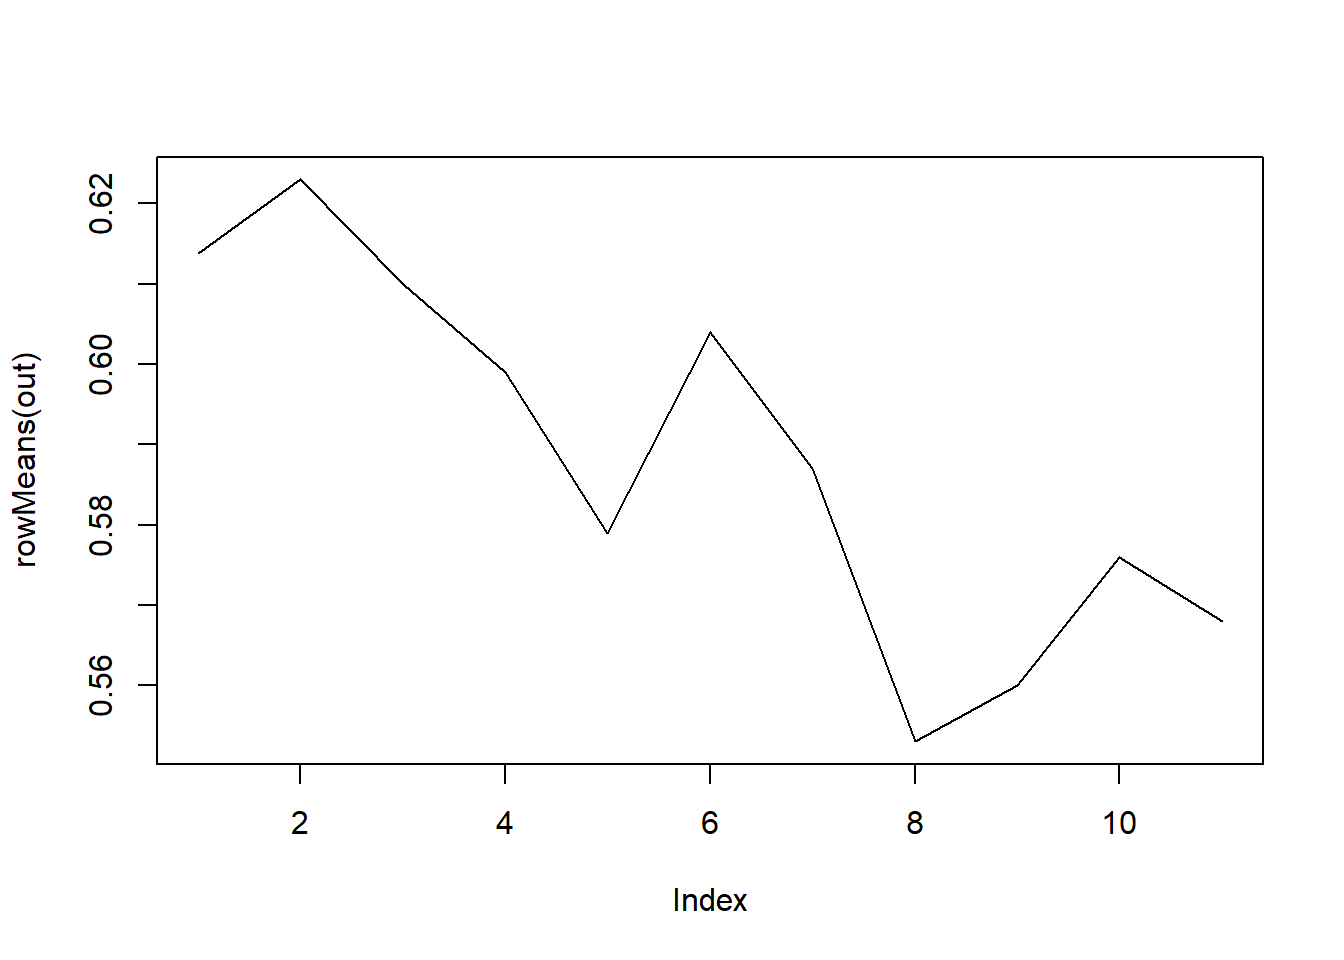
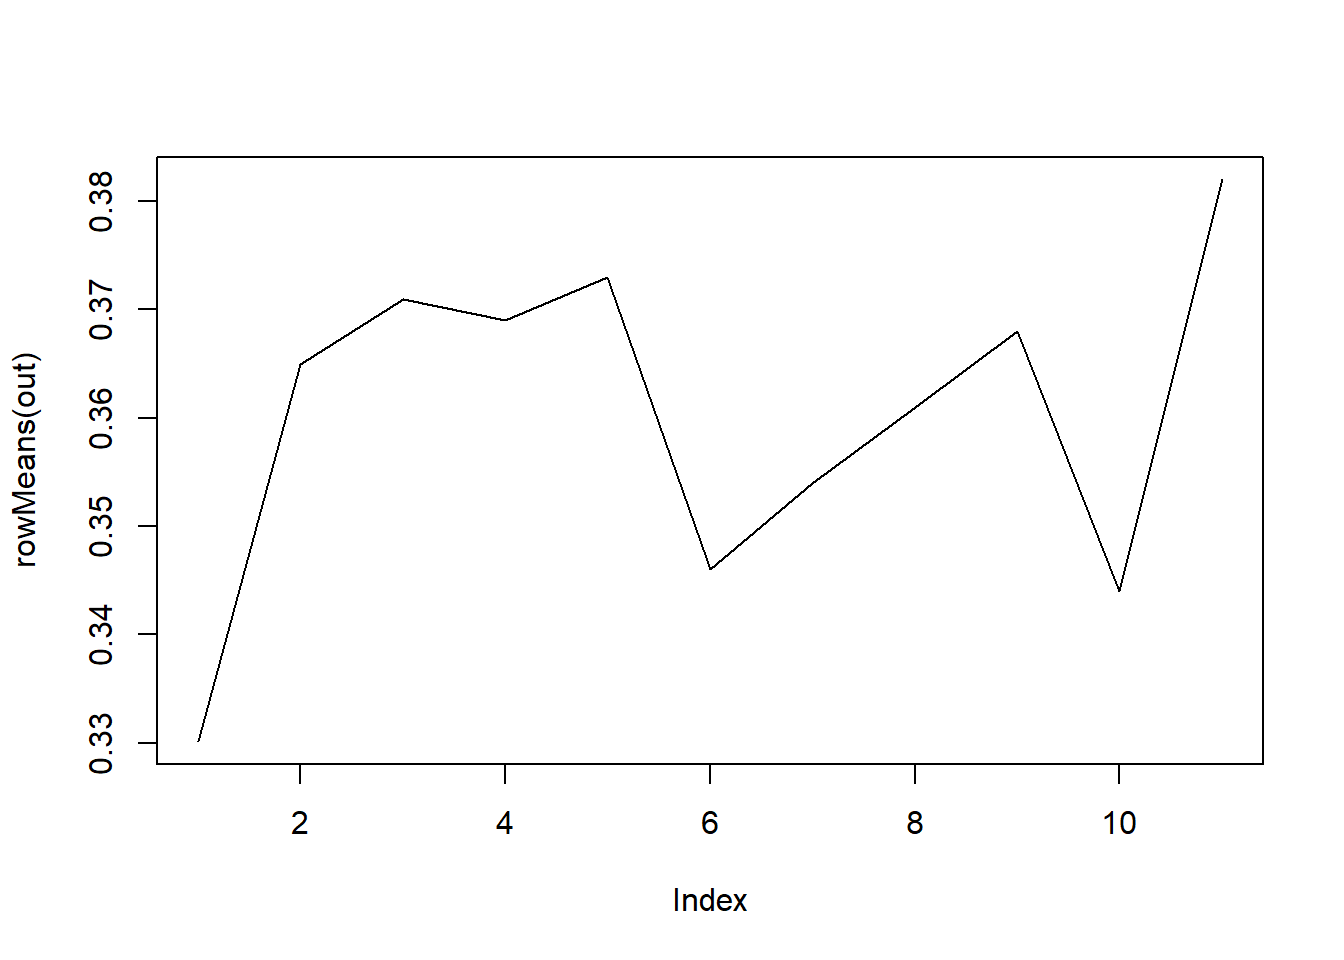
book rendered

diff --git a/_book/genetic_drift.html b/_book/genetic_drift.html
@@ -277,7 +277,6 @@ window.Quarto = {
   <ul class="collapse">
   <li><a href="#de-binomiale-kansverdeling" id="toc-de-binomiale-kansverdeling" class="nav-link" data-scroll-target="#de-binomiale-kansverdeling"><span class="header-section-number">6.2.1</span> De binomiale kansverdeling</a></li>
   </ul></li>
-  <li><a href="#test" id="toc-test" class="nav-link" data-scroll-target="#test"><span class="header-section-number">6.3</span> TEST</a></li>
   </ul>
 </nav>
     </div>
@@ -318,7 +317,7 @@ window.Quarto = {
 <span id="cb2-4"><a href="#cb2-4" aria-hidden="true" tabindex="-1"></a>freq <span class="ot">&lt;-</span> <span class="fu">c</span>(p0,p1)</span>
 <span id="cb2-5"><a href="#cb2-5" aria-hidden="true" tabindex="-1"></a>freq</span></code></pre></div><button title="Copy to Clipboard" class="code-copy-button"><i class="bi"></i></button></div>
 <div class="cell-output cell-output-stdout">
-<pre><code>[1] 0.3861709 0.6138291</code></pre>
+<pre><code>[1] 0.6698704 0.3301296</code></pre>
 </div>
 </div>
 <p>Om het principe van genetic drift in één generatietijdseenheid van deze populatie te simuleren, bedenken we het volgende:</p>
@@ -348,7 +347,7 @@ window.Quarto = {
 <span id="cb5-4"><a href="#cb5-4" aria-hidden="true" tabindex="-1"></a>freq_nieuw <span class="ot">&lt;-</span> <span class="fu">c</span>(p0_nieuw, p1_nieuw)</span>
 <span id="cb5-5"><a href="#cb5-5" aria-hidden="true" tabindex="-1"></a>freq_nieuw</span></code></pre></div><button title="Copy to Clipboard" class="code-copy-button"><i class="bi"></i></button></div>
 <div class="cell-output cell-output-stdout">
-<pre><code>[1] 0.391 0.609</code></pre>
+<pre><code>[1] 0.6835 0.3165</code></pre>
 </div>
 </div>
 <p>Het verschil ten opzichte van de frequenties in de vorige populatie kunnen we zien door de vectoren van elkaar af te trekken:</p>
@@ -356,7 +355,7 @@ window.Quarto = {
 <div class="code-copy-outer-scaffold"><div class="sourceCode cell-code" id="cb7"><pre class="sourceCode r code-with-copy"><code class="sourceCode r"><span id="cb7-1"><a href="#cb7-1" aria-hidden="true" tabindex="-1"></a>gen_verschil <span class="ot">&lt;-</span> freq_nieuw <span class="sc">-</span> freq</span>
 <span id="cb7-2"><a href="#cb7-2" aria-hidden="true" tabindex="-1"></a>gen_verschil</span></code></pre></div><button title="Copy to Clipboard" class="code-copy-button"><i class="bi"></i></button></div>
 <div class="cell-output cell-output-stdout">
-<pre><code>[1]  0.004829141 -0.004829141</code></pre>
+<pre><code>[1]  0.01362965 -0.01362965</code></pre>
 </div>
 </div>
 <p>Deze simulatie geeft slechts een beperkt beeld van de mogelijkheden weer: het gaan om één populatie en we bekijken één generatietijd. Voor een andere populatie zou de uitkomst van het random samplen heel anders kunnen zijn. Bovendien is het resultaat ook anders als we de code voor dezelfde populatie opnieuw runnen. Ook zouden we geïnteresseerd kunnen zijn in het effect van genetic drift op de langere termijn. We kunnen dus, met dezelfde logica als bovenstaand, een <code>functie</code> bouwen die dit voor een willekeurig aantal populaties en generaties bijhoudt en de simulaties meerdere keren uitvoert:</p>
@@ -384,17 +383,17 @@ window.Quarto = {
 <span id="cb10-2"><a href="#cb10-2" aria-hidden="true" tabindex="-1"></a>out</span></code></pre></div><button title="Copy to Clipboard" class="code-copy-button"><i class="bi"></i></button></div>
 <div class="cell-output cell-output-stdout">
 <pre><code>           [,1]      [,2]      [,3]      [,4]      [,5]
- [1,] 0.6138291 0.6138291 0.6138291 0.6138291 0.6138291
- [2,] 0.6600000 0.5800000 0.6400000 0.5850000 0.6500000
- [3,] 0.6750000 0.5250000 0.6550000 0.5750000 0.6200000
- [4,] 0.6300000 0.5250000 0.6800000 0.5050000 0.6550000
- [5,] 0.6300000 0.4950000 0.6250000 0.4750000 0.6700000
- [6,] 0.6250000 0.5700000 0.5950000 0.5350000 0.6950000
- [7,] 0.6250000 0.5300000 0.6150000 0.5200000 0.6450000
- [8,] 0.5950000 0.5350000 0.5200000 0.4850000 0.6300000
- [9,] 0.6300000 0.5300000 0.5050000 0.4650000 0.6700000
-[10,] 0.6850000 0.5250000 0.5000000 0.4550000 0.7150000
-[11,] 0.6800000 0.5050000 0.4050000 0.5000000 0.7500000</code></pre>
+ [1,] 0.3301296 0.3301296 0.3301296 0.3301296 0.3301296
+ [2,] 0.4200000 0.3700000 0.3200000 0.3900000 0.3250000
+ [3,] 0.4500000 0.3700000 0.2650000 0.4150000 0.3550000
+ [4,] 0.4450000 0.3900000 0.2900000 0.4150000 0.3050000
+ [5,] 0.4450000 0.4000000 0.3150000 0.3400000 0.3650000
+ [6,] 0.3300000 0.3900000 0.3250000 0.3600000 0.3250000
+ [7,] 0.3300000 0.3800000 0.3350000 0.3850000 0.3400000
+ [8,] 0.3150000 0.3400000 0.3650000 0.4100000 0.3750000
+ [9,] 0.3100000 0.3500000 0.3200000 0.4400000 0.4200000
+[10,] 0.3300000 0.3500000 0.2550000 0.4100000 0.3750000
+[11,] 0.3350000 0.4250000 0.2750000 0.4400000 0.4350000</code></pre>
 </div>
 </div>
 <p>We krijgen dus een matrix waarin we de frequentie van allel 1 over de generaties heen (rijen) zien voor elke populatie (kolommen).</p>
@@ -494,11 +493,6 @@ window.Quarto = {
 </div>
 </div>
 </div>
-</section>
-</section>
-<section id="test" class="level2" data-number="6.3">
-<h2 data-number="6.3" class="anchored" data-anchor-id="test"><span class="header-section-number">6.3</span> TEST</h2>
-<p>Dit is een extra stuk tekst om te committen zodat we kunnen kijken of netlify update. <strong>BLABLA</strong> testtest</p>
 
 
 <script type="ojs-module-contents">
@@ -515,6 +509,7 @@ eyJjb250ZW50cyI6W119
 <script type="vfs-file">
 W10=
 </script>
+</section>
 </section>
 
 </main> <!-- /main -->
